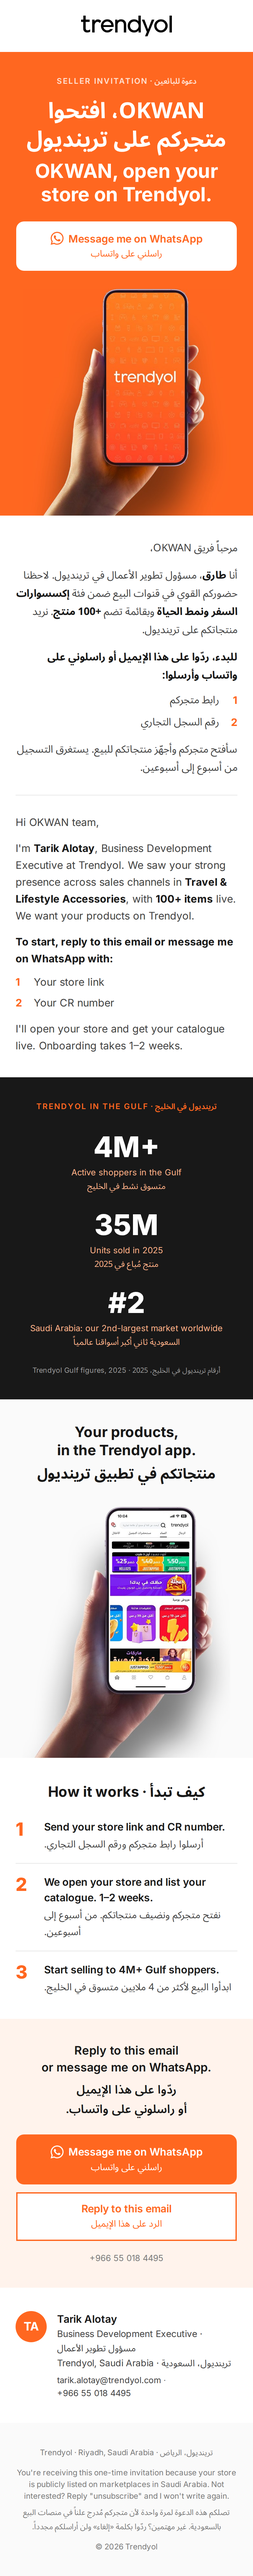
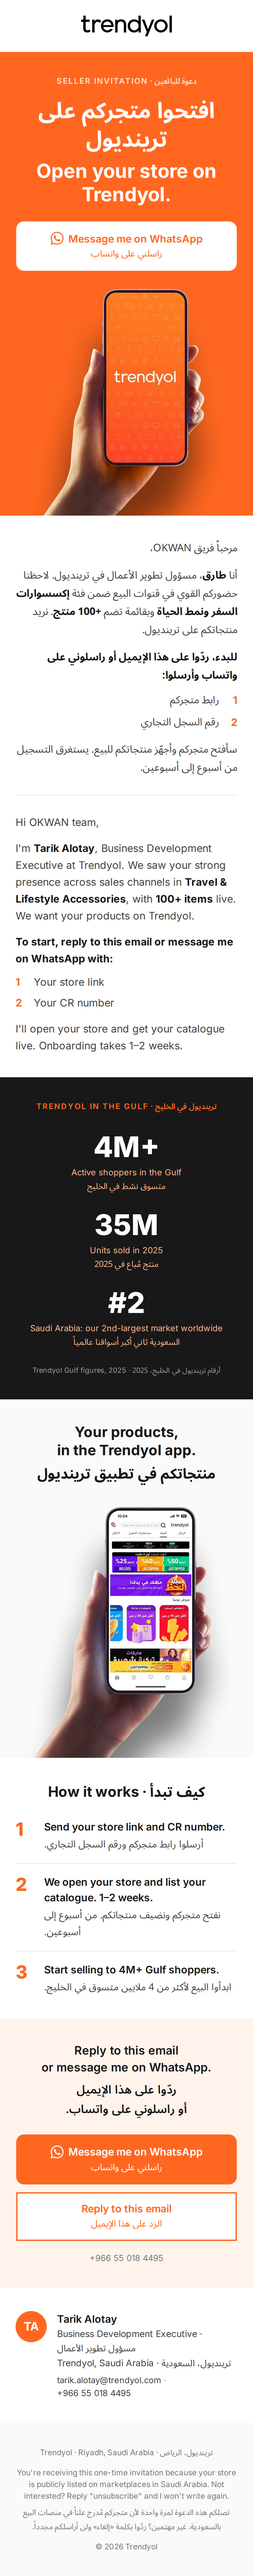
Drop the seller name from the hero headlines
The name now appears once, in the greeting of each language column. Hero
headlines read "Open your store on Trendyol." in both languages and fit on
one line on PC.

Claude-Session: https://claude.ai/code/session_01K3ZpNdL1jY4TwxZkSQMzGh

Changed region(s): [[0.1538, 0.0311, 0.8615, 0.0934]]

diff --git a/trendyol-seller-outreach-email/email.html b/trendyol-seller-outreach-email/email.html
@@ -65,12 +65,12 @@ a { color:#FF6720; }
 <!-- Headlines (max-width 520px so both H1s wrap in balanced lines on PC) -->
 <tr>
 <td align="center" style="padding:0; text-align:center;">
-<table role="presentation" cellpadding="0" cellspacing="0" border="0" align="center" width="520" style="width:100%; max-width:520px; margin:0 auto; border-collapse:collapse;">
+<table role="presentation" cellpadding="0" cellspacing="0" border="0" align="center" width="600" style="width:100%; max-width:600px; margin:0 auto; border-collapse:collapse;">
 <tr>
-<td class="h1-ar" lang="ar" dir="rtl" align="center" style="padding:0 0 8px 0; text-align:center; font-family:'Noto Sans Arabic','Segoe UI',Tahoma,Arial,sans-serif; font-size:42px; line-height:54px; font-weight:700; color:#FFFFFF;"><span dir="ltr">{{seller_name}}</span>، افتحوا متجركم على ترينديول</td>
+<td class="h1-ar" lang="ar" dir="rtl" align="center" style="padding:0 0 8px 0; text-align:center; font-family:'Noto Sans Arabic','Segoe UI',Tahoma,Arial,sans-serif; font-size:42px; line-height:54px; font-weight:700; color:#FFFFFF;">افتحوا متجركم على ترينديول</td>
 </tr>
 <tr>
-<td class="h1-en" lang="en" dir="ltr" align="center" style="padding:0 0 24px 0; text-align:center; font-family:'Inter','Helvetica Neue',Helvetica,Arial,sans-serif; font-size:38px; line-height:44px; font-weight:700; color:#FFFFFF;">{{seller_name}}, open your store on Trendyol.</td>
+<td class="h1-en" lang="en" dir="ltr" align="center" style="padding:0 0 24px 0; text-align:center; font-family:'Inter','Helvetica Neue',Helvetica,Arial,sans-serif; font-size:38px; line-height:44px; font-weight:700; color:#FFFFFF;">Open your store on Trendyol.</td>
 </tr>
 </table>
 </td>

diff --git a/trendyol-seller-outreach-email/output/email-okwan-sample.html b/trendyol-seller-outreach-email/output/email-okwan-sample.html
@@ -65,12 +65,12 @@ a { color:#FF6720; }
 <!-- Headlines (max-width 520px so both H1s wrap in balanced lines on PC) -->
 <tr>
 <td align="center" style="padding:0; text-align:center;">
-<table role="presentation" cellpadding="0" cellspacing="0" border="0" align="center" width="520" style="width:100%; max-width:520px; margin:0 auto; border-collapse:collapse;">
+<table role="presentation" cellpadding="0" cellspacing="0" border="0" align="center" width="600" style="width:100%; max-width:600px; margin:0 auto; border-collapse:collapse;">
 <tr>
-<td class="h1-ar" lang="ar" dir="rtl" align="center" style="padding:0 0 8px 0; text-align:center; font-family:'Noto Sans Arabic','Segoe UI',Tahoma,Arial,sans-serif; font-size:42px; line-height:54px; font-weight:700; color:#FFFFFF;"><span dir="ltr">OKWAN</span>، افتحوا متجركم على ترينديول</td>
+<td class="h1-ar" lang="ar" dir="rtl" align="center" style="padding:0 0 8px 0; text-align:center; font-family:'Noto Sans Arabic','Segoe UI',Tahoma,Arial,sans-serif; font-size:42px; line-height:54px; font-weight:700; color:#FFFFFF;">افتحوا متجركم على ترينديول</td>
 </tr>
 <tr>
-<td class="h1-en" lang="en" dir="ltr" align="center" style="padding:0 0 24px 0; text-align:center; font-family:'Inter','Helvetica Neue',Helvetica,Arial,sans-serif; font-size:38px; line-height:44px; font-weight:700; color:#FFFFFF;">OKWAN, open your store on Trendyol.</td>
+<td class="h1-en" lang="en" dir="ltr" align="center" style="padding:0 0 24px 0; text-align:center; font-family:'Inter','Helvetica Neue',Helvetica,Arial,sans-serif; font-size:38px; line-height:44px; font-weight:700; color:#FFFFFF;">Open your store on Trendyol.</td>
 </tr>
 </table>
 </td>

diff --git a/trendyol-seller-outreach-email/DESIGN.md b/trendyol-seller-outreach-email/DESIGN.md
@@ -82,10 +82,10 @@ Wordmark `assets/trendyol-logo.png`, 140px wide, alt `trendyol`, padding 24px to
 - Eyebrow (12px/18, SemiBold, letter-spacing 1.5px on the Latin part, colour `#FFE0D2`):
   `SELLER INVITATION · دعوة للبائعين`
 - Arabic H1 (`dir="rtl" lang="ar"`, Noto Sans Arabic 700, 34px/44 phone, 42px/54 PC, white):
-  `{{seller_name}}، افتحوا متجركم على ترينديول`
+  `افتحوا متجركم على ترينديول` (no seller name in the hero; it appears once, in the greeting of each column)
 - English H1 (Inter 700, 30px/36 phone, 38px/44 PC, white, 8px below the Arabic H1):
-  `{{seller_name}}, open your store on Trendyol.`
-- Both H1s sit in a nested table `max-width:520px` so they wrap into two balanced lines on PC instead of leaving an orphan word.
+  `Open your store on Trendyol.`
+- Both H1s sit in a nested table `max-width:600px`; on PC each fits on one line, on phone they wrap to two balanced lines.
 - Primary button (white `#FFFFFF` background, orange text, radius 12px, `max-width:340px`, width 100%,
   padding 14px 20px, orange WhatsApp icon 20px + 8px gap), two-line label:
   line 1 Inter 600 16px `Message me on WhatsApp`, line 2 Noto Sans Arabic 500 14px `dir="rtl"` `راسلني على واتساب`
